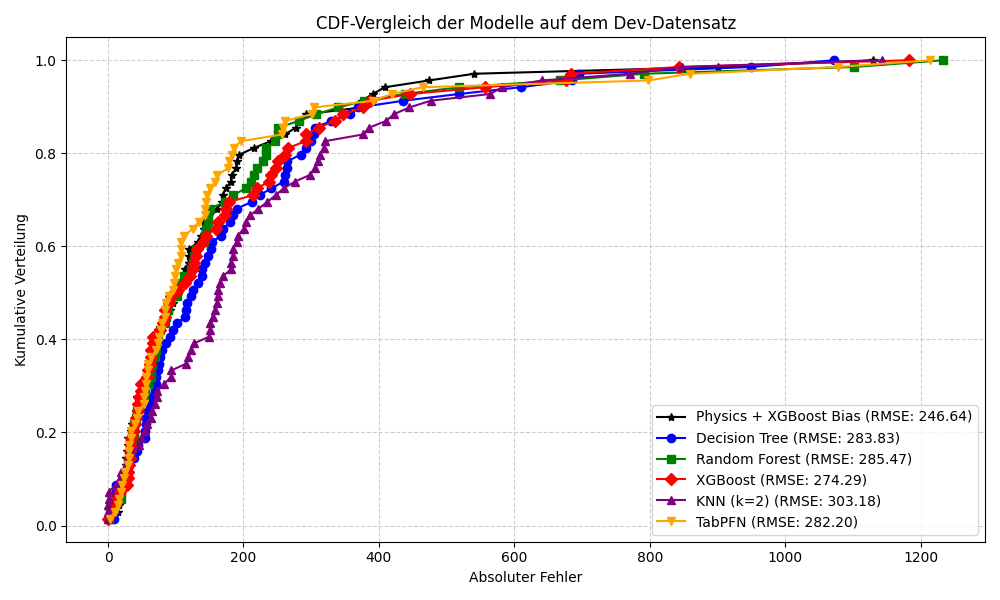
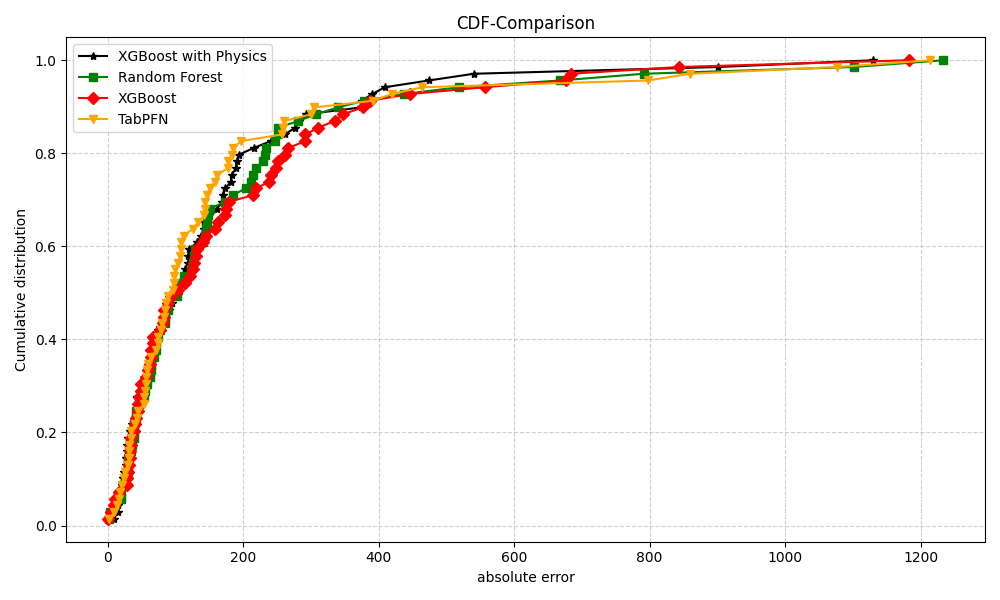
CDF Plot of all models changed

diff --git a/model_comparison.py b/model_comparison.py
@@ -31,11 +31,6 @@ bias_rmse = np.sqrt(mean_squared_error(y_true_phys, f_pull_corrected))
 
 # === Modelle & Pfade ===
 models = {
-    "Decision Tree": {
-        "path": "model_training/decision_tree/final_models/dt_final_model_train_only.pkl",
-        "color": "blue",
-        "marker": "o"
-    },
     "Random Forest": {
         "path": "model_training/random_forest/final_models/rf_final_model_train_only.pkl",
         "color": "green",
@@ -45,11 +40,6 @@ models = {
         "path": "model_training/xgboost/final_models/xgb_final_model_train_only.pkl",
         "color": "red",
         "marker": "D"
-    },
-    "KNN (k=2)": {
-        "path": "model_training/knn_regressor/final_models/knn_final_model_train_only.pkl",
-        "color": "purple",
-        "marker": "^"
     },
     "TabPFN": {
         "path": "model_training/tabpfn/final_models/tabpfn_model_train_only.pkl",
@@ -64,7 +54,7 @@ plt.figure(figsize=(10, 6))
 # === CDF für Bias-Korrektur-Modell ===
 sorted_errors = np.sort(bias_errors)
 cdf = np.arange(1, len(bias_errors) + 1) / len(bias_errors)
-plt.plot(sorted_errors, cdf, label=f"Physics + XGBoost Bias (RMSE: {bias_rmse:.2f})", 
+plt.plot(sorted_errors, cdf, label=f"XGBoost with Physics", 
          color="black", marker="*", markevery=1)
 
 # === CDF für jedes Modell ===
@@ -77,13 +67,13 @@ for name, cfg in models.items():
     sorted_errors = np.sort(errors)
     cdf = np.arange(1, len(errors) + 1) / len(errors)
 
-    plt.plot(sorted_errors, cdf, label=f"{name} (RMSE: {rmse:.2f})", 
+    plt.plot(sorted_errors, cdf, label=f"{name}" ,
              color=cfg["color"], marker=cfg["marker"], markevery=1)
 
 # === Plot-Design ===
-plt.xlabel("Absoluter Fehler")
-plt.ylabel("Kumulative Verteilung")
-plt.title("CDF-Vergleich der Modelle auf dem Dev-Datensatz")
+plt.xlabel("absolute error")
+plt.ylabel("Cumulative distribution")
+plt.title("CDF-Comparison")
 plt.grid(True, linestyle="--", alpha=0.6)
 plt.legend()
 plt.tight_layout()
